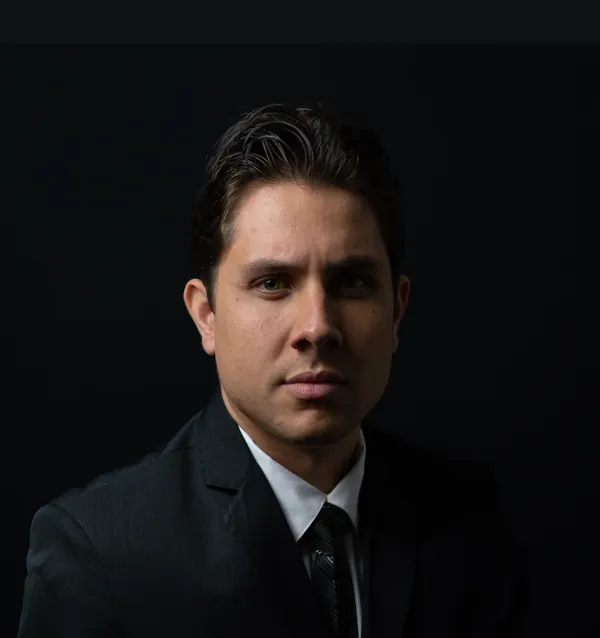
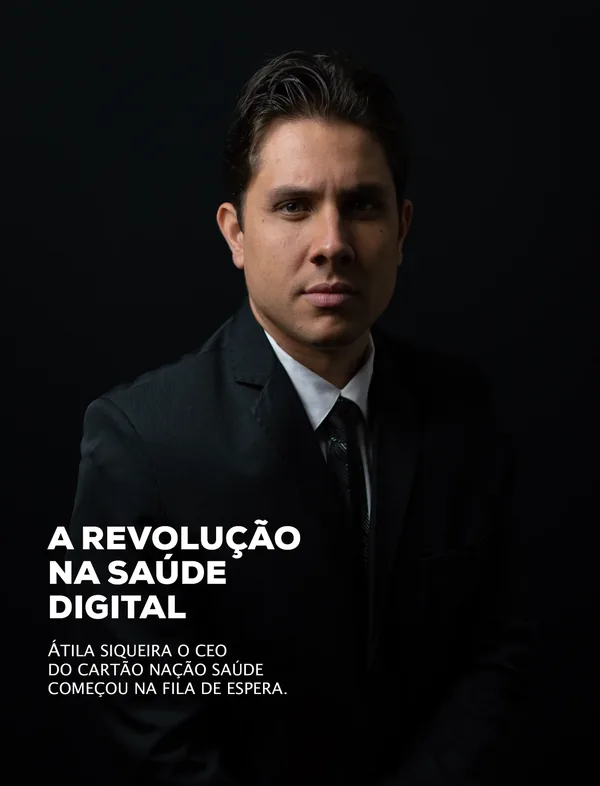
Show the full award photo with its caption, drop scroll zoom

Changed region(s): [[0.03, 0.0596, 0.69, 1.0], [0.51, 0.8636, 0.63, 1.0]]

diff --git a/styles.css b/styles.css
@@ -265,9 +265,9 @@ body::after {
   margin-top: clamp(70px, 9vw, 130px); display: grid; grid-template-columns: 1.15fr 1fr; overflow: hidden;
   border-radius: calc(var(--radius) + 6px); background: linear-gradient(135deg, #0f201d, #0b1216 60%); border: 1px solid rgba(4,195,143,.22);
 }
-.award__media { position: relative; min-height: 420px; overflow: hidden; }
-.award__media img { position: absolute; inset: 0; width: 100%; height: 100%; object-fit: cover; object-position: 50% 18%; }
-.award__media::after { content: ""; position: absolute; inset: 0; background: linear-gradient(90deg, transparent 50%, #0e1d1b); }
+.award__media { position: relative; min-height: 420px; overflow: hidden; background: #090b0d; }
+.award__media img { position: absolute; inset: 0; width: 100%; height: 100%; object-fit: contain; object-position: 50% 100%; }
+.award__media::after { content: ""; position: absolute; inset: 0; background: linear-gradient(90deg, transparent 62%, #0e1d1b); }
 .award__body { position: relative; padding: clamp(32px, 5vw, 64px); display: flex; flex-direction: column; justify-content: center; }
 .award__title { font-size: clamp(28px, 3.4vw, 46px); line-height: 1.08; margin-bottom: 18px; }
 .award__body p:last-child { color: #aeb9b6; margin: 0; max-width: 44ch; }
@@ -278,8 +278,9 @@ body::after {
 @keyframes spin { to { transform: rotate(360deg); } }
 @media (max-width: 900px) {
   .award { grid-template-columns: 1fr; }
-  .award__media { min-height: 260px; }
-  .award__media::after { background: linear-gradient(180deg, transparent 50%, #0e1d1b); }
+  .award__media { min-height: 0; }
+  .award__media img { position: static; display: block; height: auto; }
+  .award__media::after { background: linear-gradient(180deg, transparent 92%, #0e1d1b); }
 }
 
 /* gallery */

diff --git a/index.html b/index.html
@@ -133,7 +133,7 @@
       <div class="container">
         <div class="award">
           <div class="award__media">
-            <img src="assets/destaque.webp" srcset="assets/destaque-600.webp 600w, assets/destaque-900.webp 900w, assets/destaque.webp 1260w" sizes="(max-width: 900px) 100vw, 640px" alt="Átila Siqueira, semifinalista nacional no Startup Awards 2026" loading="lazy" width="1260" height="1340">
+            <img src="assets/destaque.webp" srcset="assets/destaque-600.webp 600w, assets/destaque-900.webp 900w, assets/destaque.webp 1455w" sizes="(max-width: 900px) 100vw, 640px" alt="Átila Siqueira — A revolução na saúde digital: o CEO do Cartão Nação Saúde começou na fila de espera" loading="lazy" width="1455" height="1906">
           </div>
           <div class="award__body">
             <div class="award__seal" aria-hidden="true">

diff --git a/main.js b/main.js
@@ -225,10 +225,6 @@
     y: 80, autoAlpha: 0, duration: 1.3, ease: "expo.out",
     scrollTrigger: { trigger: ".award", start: "top 85%" }
   });
-  gsap.fromTo(".award__media img", { scale: 1.25 }, {
-    scale: 1, ease: "none",
-    scrollTrigger: { trigger: ".award", start: "top bottom", end: "bottom top", scrub: true }
-  });
 
   /* ---------- stacked module cards ---------- */
   const cards = gsap.utils.toArray(".stack .card");
